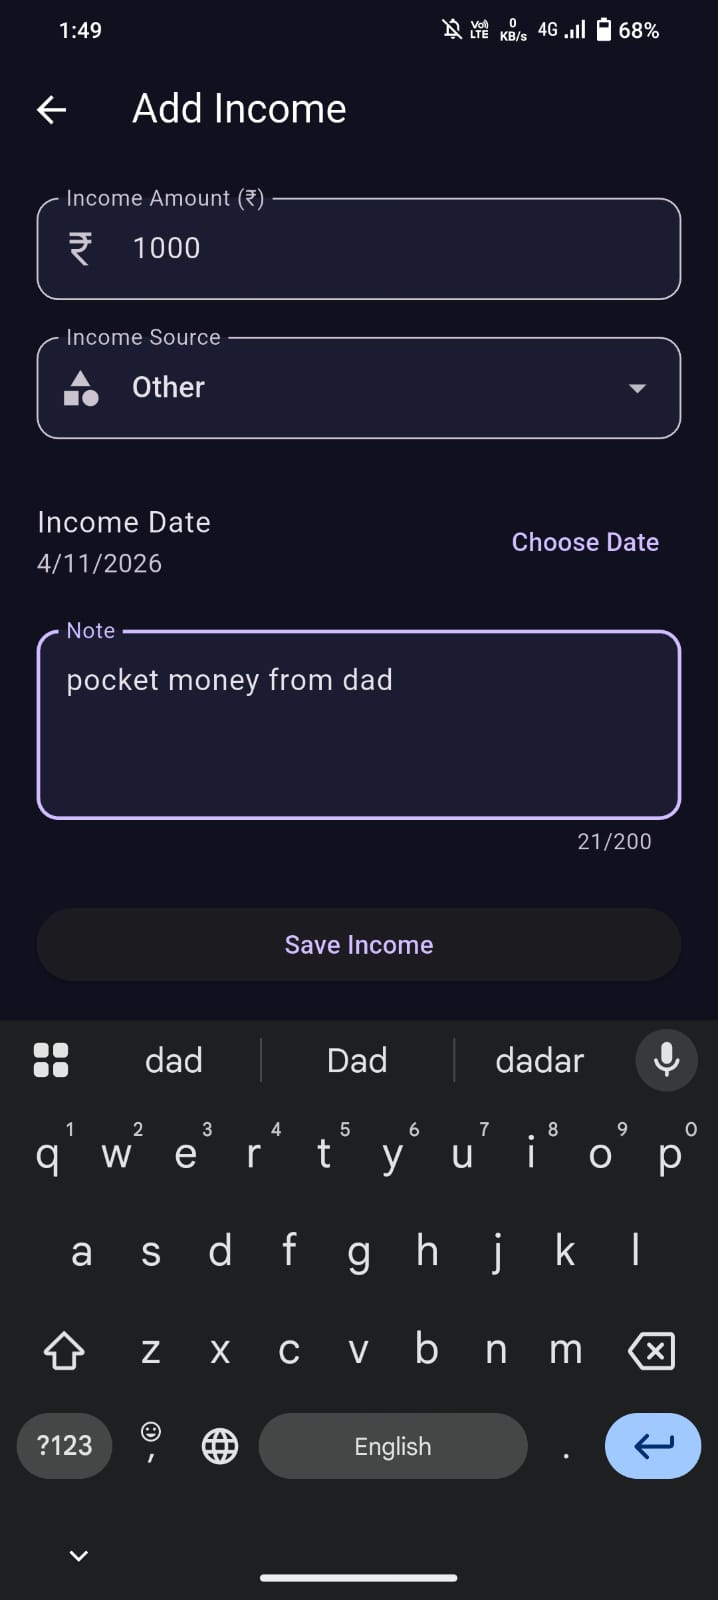
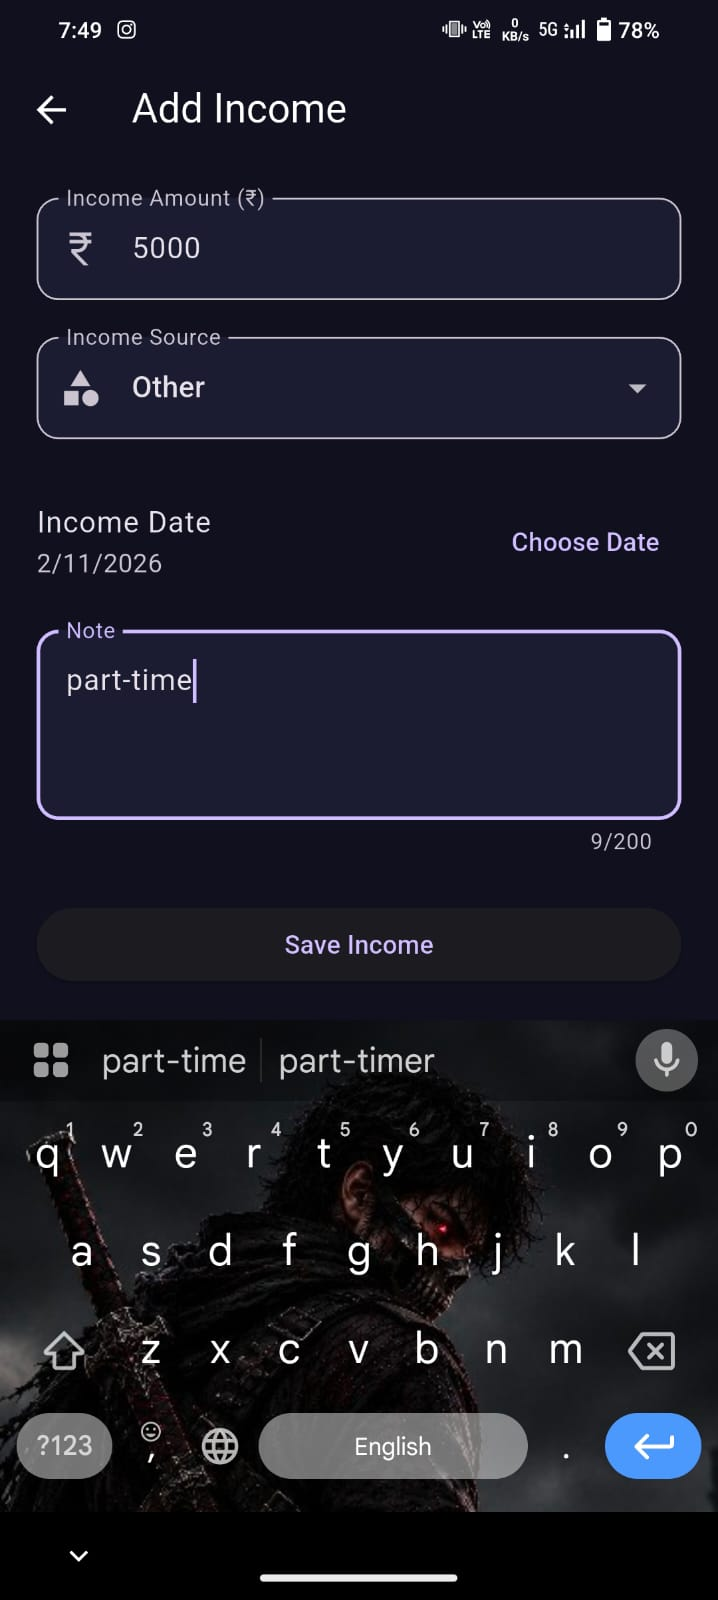
Update README and add defect log

diff --git a/README.md b/README.md
@@ -41,16 +41,16 @@ User-entered income and expense records are stored locally using SharedPreferenc
 2. Punna Saideep
 
 ## 8. Screenshots
+## Screenshots
 
 ### Dashboard
-![Dashboard](screenshots/dashboard.jpg)
+![Dashboard](screenshots/dashboard.jpg.jpeg)
 
-### Add Income / Add Expense
-![Add Transaction](screenshots/add_transaction.jpg)
+### Add Transaction
+![Add Transaction](screenshots/add_transaction.jpeg)
 
-### Reports / Summary
-![Reports](screenshots/reports.jpg)
-
+### Reports
+![Reports](screenshots/reports.jpg.jpeg)
 ## 9. Testing
 - Flutter widget test passed.
 - Release APK generated successfully.
@@ -61,4 +61,4 @@ User-entered income and expense records are stored locally using SharedPreferenc
 `build/app/outputs/flutter-apk/app-release.apk`
 
 ## 11. Project Repository
-https://github.com/248x1a42d8/Expense_Tracker
+https://github.com/248x1a42d8/Expense_Tracker/releases/latest
